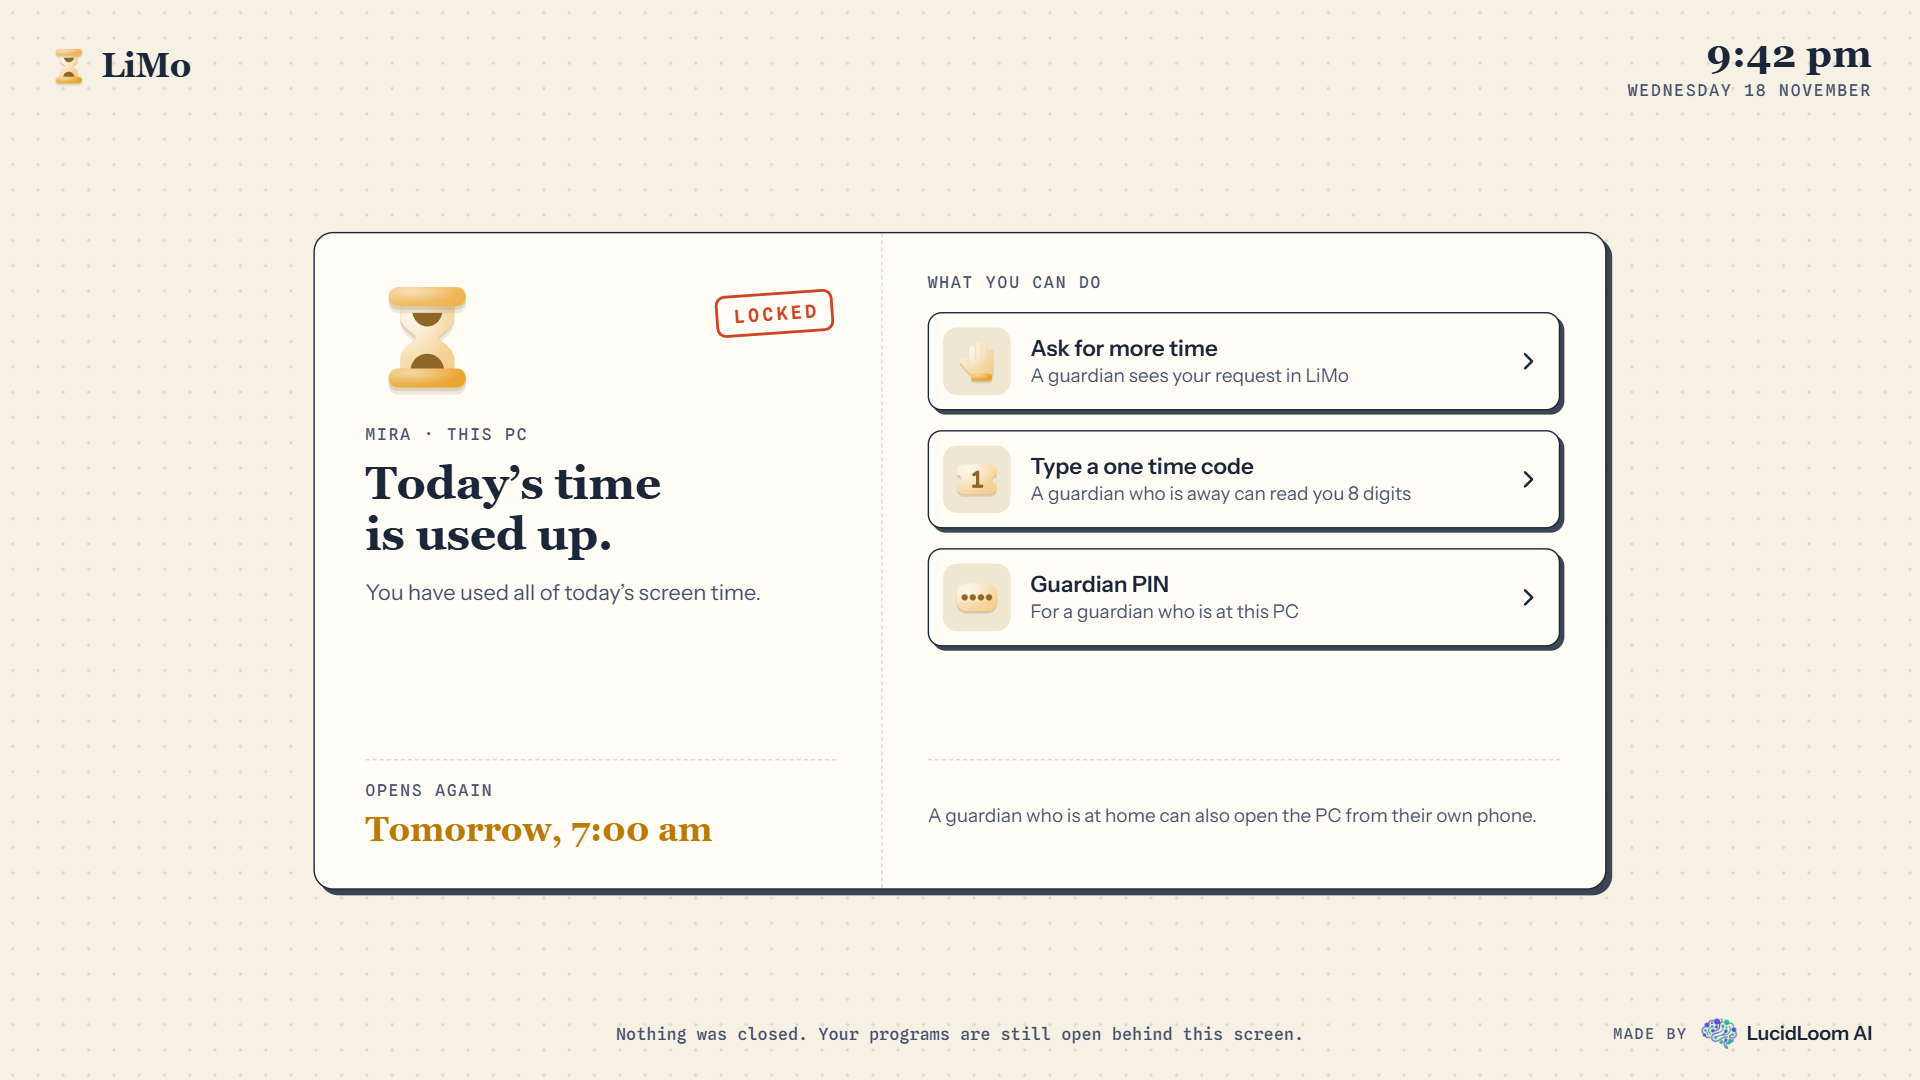
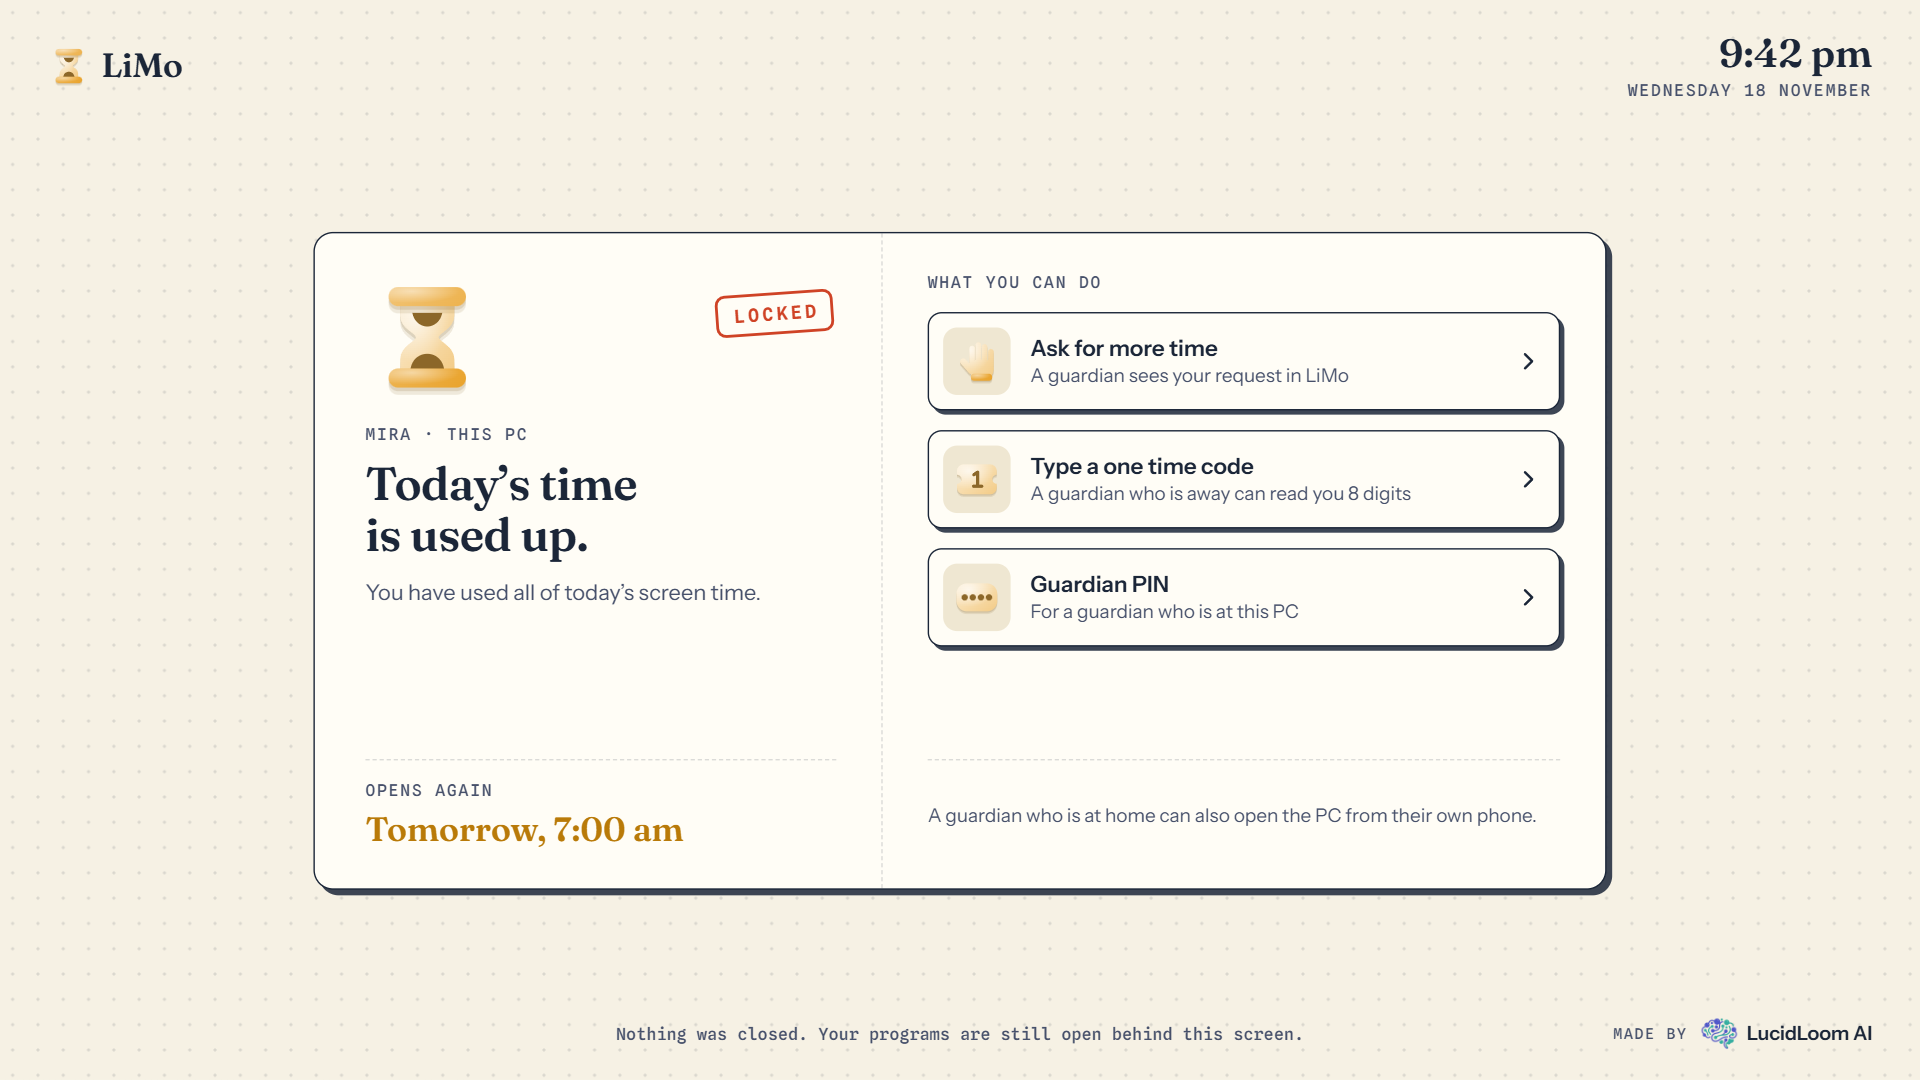
Design: the pages load the theme's own fonts
On a PC where the three fonts are installed for one user only, a browser could not find Fraunces by name, so the design pages showed headings in a fallback. They now load the fonts from the copies the product bundles in screens/fonts, so every reviewer sees the real type. The two preview pictures are taken again.

diff --git a/design/screens/pc.css b/design/screens/pc.css
@@ -5,6 +5,12 @@
    Sizes are for a screen of 1366 by 768. lock.html scales the whole screen
    to fit the window, and the real helper does the same. */
 
+/* The theme's three fonts, loaded from the copies the product itself
+   bundles (screens/fonts), so the pages show the real type on any PC. */
+@font-face { font-family: 'Fraunces'; src: url('../../screens/fonts/fraunces/Fraunces-VariableFont_SOFT%2CWONK%2Copsz%2Cwght.ttf') format('truetype'); font-weight: 100 900; font-display: block; }
+@font-face { font-family: 'Instrument Sans'; src: url('../../screens/fonts/instrument-sans/InstrumentSans-VariableFont_wdth%2Cwght.ttf') format('truetype'); font-weight: 400 700; font-display: block; }
+@font-face { font-family: 'Spline Sans Mono'; src: url('../../screens/fonts/spline-sans-mono/SplineSansMono-VariableFont_wght.ttf') format('truetype'); font-weight: 300 700; font-display: block; }
+
 :root {
   --paper: #f6f1e4; --paper2: #efe7d2; --card: #fffdf6; --ink: #1b2638; --ink-soft: #46506a;
   --marigold: #e89c1c; --marigold-deep: #b97a08; --teal: #0e7c66; --coral: #cf4326;

diff --git a/design/icons/sheet.html b/design/icons/sheet.html
@@ -5,6 +5,11 @@
 <meta name="viewport" content="width=device-width, initial-scale=1">
 <title>LiMo icons</title>
 <style>
+  /* The theme's three fonts, loaded from the copies the product itself
+     bundles (screens/fonts), so the pages show the real type on any PC. */
+  @font-face { font-family: 'Fraunces'; src: url('../../screens/fonts/fraunces/Fraunces-VariableFont_SOFT%2CWONK%2Copsz%2Cwght.ttf') format('truetype'); font-weight: 100 900; font-display: block; }
+  @font-face { font-family: 'Instrument Sans'; src: url('../../screens/fonts/instrument-sans/InstrumentSans-VariableFont_wdth%2Cwght.ttf') format('truetype'); font-weight: 400 700; font-display: block; }
+  @font-face { font-family: 'Spline Sans Mono'; src: url('../../screens/fonts/spline-sans-mono/SplineSansMono-VariableFont_wght.ttf') format('truetype'); font-weight: 300 700; font-display: block; }
   :root {
     --paper: #f6f1e4; --paper2: #efe7d2; --card: #fffdf6; --ink: #1b2638; --ink-soft: #46506a;
     --marigold: #e89c1c; --marigold-deep: #b97a08; --teal: #0e7c66; --coral: #cf4326;

diff --git a/design/README.md b/design/README.md
@@ -48,8 +48,9 @@ outlined box.
 
 Type: Fraunces for headings and large numbers, Instrument Sans for reading
 text, Spline Sans Mono for labels, times and other data. All three are
-published under the SIL Open Font License 1.1. Check the licence file that
-comes with each font before bundling it.
+published under the SIL Open Font License 1.1. The product bundles them,
+each beside its licence, in `../screens/fonts/`, and the pages in this folder
+load them from there, so they show the real type on any PC.
 
 Shape: borders are 1.5 wide, corners are 7, 10 or 14, and the card shadow
 is 4 across and 4 down with no blur. Spacing steps by 4.
